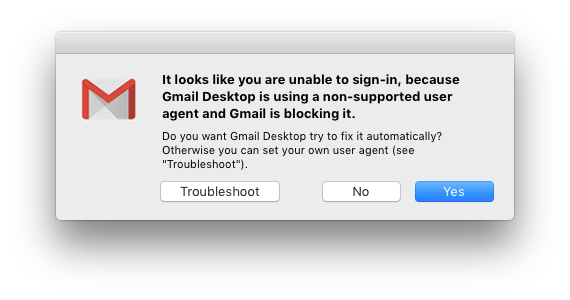
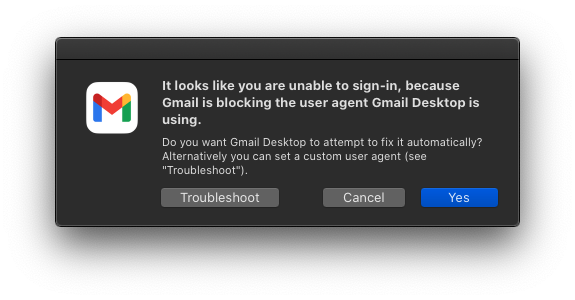
rework custom user agent

diff --git a/src/app.ts b/src/app.ts
@@ -24,7 +24,7 @@ import { platform, getUrlAccountId, createTrayIcon } from './helpers'
 import menu from './menu'
 import { setAppMenuBarVisibility, cleanURLFromGoogle } from './utils'
 import ensureOnline from './ensure-online'
-import { getCustomUserAgent, autoFixUserAgent } from './user-agent'
+import { autoFixUserAgent, removeCustomUserAgent } from './user-agent'
 
 import electronContextMenu = require('electron-context-menu')
 
@@ -122,17 +122,48 @@ function createWindow(): void {
 
   mainWindow.webContents.on('did-finish-load', async () => {
     if (mainWindow.webContents.getURL().includes('signin/rejected')) {
-      const { response } = await dialog.showMessageBox({
-        type: 'info',
-        message: `It looks like you are unable to sign-in, because ${app.name} is using a non-supported user agent and Gmail is blocking it.`,
-        detail: `Do you want ${app.name} try to fix it automatically? Otherwise you can set your own user agent (see "Troubleshoot").`,
-        buttons: ['Yes', 'No', 'Troubleshoot']
-      })
-
-      if (response === 2) {
+      const message = `It looks like you are unable to sign-in, because Gmail is blocking the user agent ${app.name} is using.`
+      const askAutoFixMessage = `Do you want ${app.name} to attempt to fix it automatically?`
+      const troubleshoot = () => {
         openExternalUrl(
           'https://github.com/timche/gmail-desktop#i-cant-sign-in-this-browser-or-app-may-not-be-secure'
         )
+      }
+
+      if (config.get(ConfigKey.CustomUserAgent)) {
+        const { response } = await dialog.showMessageBox({
+          type: 'info',
+          message,
+          detail: `You're currently using a custom user agent. ${askAutoFixMessage} Alternatively you can try the default user agent or set another custom user agent (see "Troubleshoot").`,
+          buttons: ['Yes', 'Cancel', 'Use Default User Agent', 'Troubleshoot']
+        })
+
+        if (response === 3) {
+          troubleshoot()
+          return
+        }
+
+        if (response === 2) {
+          removeCustomUserAgent()
+          return
+        }
+
+        if (response === 1) {
+          return
+        }
+
+        return
+      }
+
+      const { response } = await dialog.showMessageBox({
+        type: 'info',
+        message,
+        detail: `${askAutoFixMessage} Alternatively you can set a custom user agent (see "Troubleshoot").`,
+        buttons: ['Yes', 'Cancel', 'Troubleshoot']
+      })
+
+      if (response === 2) {
+        troubleshoot()
         return
       }
 
@@ -276,10 +307,10 @@ app.on('before-quit', () => {
 ;(async () => {
   await Promise.all([ensureOnline(), app.whenReady()])
 
-  const userAgent = await getCustomUserAgent()
+  const customUserAgent = config.get(ConfigKey.CustomUserAgent)
 
-  if (userAgent) {
-    app.userAgentFallback = userAgent
+  if (customUserAgent) {
+    app.userAgentFallback = customUserAgent
   }
 
   createWindow()

diff --git a/src/config.ts b/src/config.ts
@@ -23,7 +23,7 @@ export enum ConfigKey {
   LaunchMinimized = 'launchMinimized',
   AutoHideMenuBar = 'autoHideMenuBar',
   EnableTrayIcon = 'enableTrayIcon',
-  OverrideUserAgent = 'overrideUserAgent',
+  CustomUserAgent = 'customUserAgent',
   AutoFixUserAgent = 'autoFixUserAgent',
   TrustedHosts = 'trustedHosts',
   ConfirmExternalLinks = 'confirmExternalLinks',
@@ -40,7 +40,7 @@ type TypedStore = {
   [ConfigKey.LaunchMinimized]: boolean
   [ConfigKey.AutoHideMenuBar]: boolean
   [ConfigKey.EnableTrayIcon]: boolean
-  [ConfigKey.OverrideUserAgent]?: string
+  [ConfigKey.CustomUserAgent]: string
   [ConfigKey.AutoFixUserAgent]: boolean
   [ConfigKey.TrustedHosts]: string[]
   [ConfigKey.ConfirmExternalLinks]: boolean
@@ -66,6 +66,7 @@ const defaults = {
   [ConfigKey.LaunchMinimized]: false,
   [ConfigKey.AutoHideMenuBar]: false,
   [ConfigKey.EnableTrayIcon]: !is.macos,
+  [ConfigKey.CustomUserAgent]: '',
   [ConfigKey.AutoFixUserAgent]: false,
   [ConfigKey.TrustedHosts]: [],
   [ConfigKey.ConfirmExternalLinks]: true,
@@ -77,8 +78,28 @@ const config = new Store<TypedStore>({
   name: is.development ? 'config.dev' : 'config',
   migrations: {
     '>=2.21.2': (store) => {
-      // @ts-expect-error
-      store.delete('hideRightSidebar')
+      const hideRightSidebar: boolean | undefined = store.get(
+        'hideRightSidebar'
+      )
+
+      if (typeof hideRightSidebar === 'boolean') {
+        // @ts-expect-error
+        store.delete('hideRightSidebar')
+      }
+    },
+    '>2.21.2': (store) => {
+      const overrideUserAgent: string | undefined = store.get(
+        'overrideUserAgent'
+      )
+
+      if (typeof overrideUserAgent === 'string') {
+        if (overrideUserAgent.length > 0) {
+          store.set(ConfigKey.CustomUserAgent, overrideUserAgent)
+        }
+
+        // @ts-expect-error
+        store.delete('overrideUserAgent')
+      }
     }
   }
 })

diff --git a/src/user-agent.ts b/src/user-agent.ts
@@ -1,63 +1,18 @@
 import { app } from 'electron'
-import got from 'got'
-import { platform } from 'electron-util'
+import { platform } from './helpers'
 import config, { ConfigKey } from './config'
+import userAgents = require('./user-agents.json')
 
-export function resetUserAgent(): void {
-  config.delete(ConfigKey.OverrideUserAgent)
+export function removeCustomUserAgent(): void {
+  config.set(ConfigKey.CustomUserAgent, '')
 
   app.relaunch()
   app.quit()
 }
 
 export function autoFixUserAgent(): void {
-  config.delete(ConfigKey.OverrideUserAgent)
-  config.set(ConfigKey.AutoFixUserAgent, true)
+  config.set(ConfigKey.CustomUserAgent, userAgents[platform])
 
   app.relaunch()
   app.quit()
-}
-
-export async function getCustomUserAgent(): Promise<string | undefined> {
-  const overrideUserAgent = config.get(ConfigKey.OverrideUserAgent)
-
-  if (overrideUserAgent) {
-    return overrideUserAgent
-  }
-
-  if (!config.get(ConfigKey.AutoFixUserAgent)) {
-    return
-  }
-
-  let latestFirefoxUserAgents
-
-  try {
-    const { body } = await got(
-      'https://www.whatismybrowser.com/guides/the-latest-user-agent/firefox'
-    )
-    latestFirefoxUserAgents = body
-  } catch {}
-
-  if (!latestFirefoxUserAgents) {
-    return
-  }
-
-  const match = latestFirefoxUserAgents.match(
-    /Mozilla\/\d+.\d+ \(.+\) Gecko\/\d+ Firefox\/\d+.\d+/gm
-  )
-
-  if (!match) {
-    return
-  }
-
-  const userAgent = platform({
-    windows: () => match[0],
-    macos: () => match[1],
-    linux: () => match[5]
-  })
-
-  config.set(ConfigKey.OverrideUserAgent, userAgent)
-  config.set(ConfigKey.AutoFixUserAgent, false)
-
-  return userAgent
 }

diff --git a/src/menu.ts b/src/menu.ts
@@ -7,7 +7,7 @@ import config, { ConfigKey } from './config'
 import { setCustomStyle, USER_CUSTOM_STYLE_PATH } from './custom-styles'
 import { viewLogs } from './logs'
 import { showRestartDialog, setAppMenuBarVisibility } from './utils'
-import { autoFixUserAgent, resetUserAgent } from './user-agent'
+import { autoFixUserAgent, removeCustomUserAgent } from './user-agent'
 
 interface AppearanceMenuItem {
   key: ConfigKey
@@ -215,12 +215,22 @@ const appMenu: MenuItemConstructorOptions[] = [
             label: 'User Agent',
             submenu: [
               {
-                label: 'Try To Fix Automatically',
-                click: autoFixUserAgent
+                label: 'Attempt User Agent Fix',
+                click() {
+                  autoFixUserAgent()
+                }
               },
               {
-                label: 'Reset To Default',
-                click: resetUserAgent
+                label: 'Set Custom User Agent',
+                click() {
+                  config.openInEditor()
+                }
+              },
+              {
+                label: 'Remove Custom User Agent',
+                click() {
+                  removeCustomUserAgent()
+                }
               }
             ]
           }

diff --git a/scripts/update-user-agents.ts b/scripts/update-user-agents.ts
@@ -1,0 +1,39 @@
+import * as path from 'path'
+import got from 'got'
+import writeJsonFile = require('write-json-file')
+
+async function main() {
+  let latestFirefoxUserAgents
+
+  try {
+    const { body } = await got(
+      'https://www.whatismybrowser.com/guides/the-latest-user-agent/firefox'
+    )
+    latestFirefoxUserAgents = body
+  } catch {}
+
+  if (!latestFirefoxUserAgents) {
+    return
+  }
+
+  const match = latestFirefoxUserAgents.match(
+    /Mozilla\/\d+.\d+ \(.+\) Gecko\/\d+ Firefox\/\d+.\d+/gm
+  )
+
+  if (!match) {
+    return
+  }
+
+  await writeJsonFile(
+    path.resolve(__dirname, '..', 'src', 'user-agents.json'),
+    {
+      windows: match[0],
+      macos: match[1],
+      linux: match[5]
+    }
+  )
+
+  console.log('Updated User Agents')
+}
+
+main()

diff --git a/README.md b/README.md
@@ -70,31 +70,31 @@ Email links in Gmail are usually prepended with `https://google.com/url?q=<actua
 
 #### I can't sign in: `This browser or app may not be secure`
 
-In December 2019 Google has decided to block unsupported user agents, such as `Electron`, from signing in to Google accounts for security reasons (related issue: [#174](https://github.com/timche/gmail-desktop/issues/174)).
+In December 2019 Google has decided to block unsupported user agents, such as Electron, from signing in to Google accounts for security reasons (related issue: [#174](https://github.com/timche/gmail-desktop/issues/174)). This only affects some users, but not all.
 
 We doubt this will ever change, so we are required to override the Electron default user agent with a supported user agent in order to sign in successfully.
 
-Gmail Desktop offers to try to automatically fix the user agent when the issue above occurs:
+Gmail Desktop offers to attempt to automatically fix the user agent when the issue above occurs:
 
 ![](media/signinfixdialog.png)
 
-Clicking on `Yes` will restart Gmail Desktop and fetches a suitable user agent based on the OS from https://www.whatismybrowser.com/guides/the-latest-user-agent/firefox that will be set in the app config. In our experience Firefox works well and consistent across all OS.
+Clicking on `Yes` will set a [custom user agent (based on Firefox)](https://github.com/timche/gmail-desktop/blob/master/src/user-agents.json) in the app config we think should work and Gmail Desktop will be restarted.
 
-In case the user agent fix isn't working anymore, you can trigger an automatic user agent fix again in the menu `Settings` → `Advanced` → `User Agent` → `Try To Fix Automatically`
+In case the custom user agent isn't working anymore, you'll be offered to let Gmail Desktop to attempt to fix it again or trigger it manually at `Settings` → `Advanced` → `User Agent` → `Attempt User Agent Fix`.
 
-If the automatic user agent fix isn't working at all or you want to set your own user agent, you are able to override the user agent via the menu `Settings` → `Advanced` → `Edit Config File`, which opens the JSON config file in your editor.
+If the automatic user agent fix isn't working at all or you want to set your own custom user agent, you are able to set the user agent at `Settings` → `Advanced` → `User Agent` → `Set Custom User Agent`, which opens the app config in your editor.
 
-In the config file, add a new key `overrideUserAgent` and set an user agent as string (e.g. from https://www.whatismybrowser.com/guides/the-latest-user-agent).
+In the app config, edit the `customUserAgent` value with an user agent from e.g. https://www.whatismybrowser.com/guides/the-latest-user-agent.
 
-Example _(do not copy user agent)_:
+Example:
 
 ```json
 {
-  "overrideUserAgent": "Mozilla/5.0 (Macintosh; Intel Mac OS X 10_15_1) AppleWebKit/537.36 (KHTML, like Gecko) Chrome/78.0.3904.108 Safari/537.36"
+  "customUserAgent": "Some User Agent"
 }
 ```
 
-Save the file, restart Gmail Desktop and sign in again.
+Save the config, restart Gmail Desktop and sign in again.
 
 ## Developing
 
